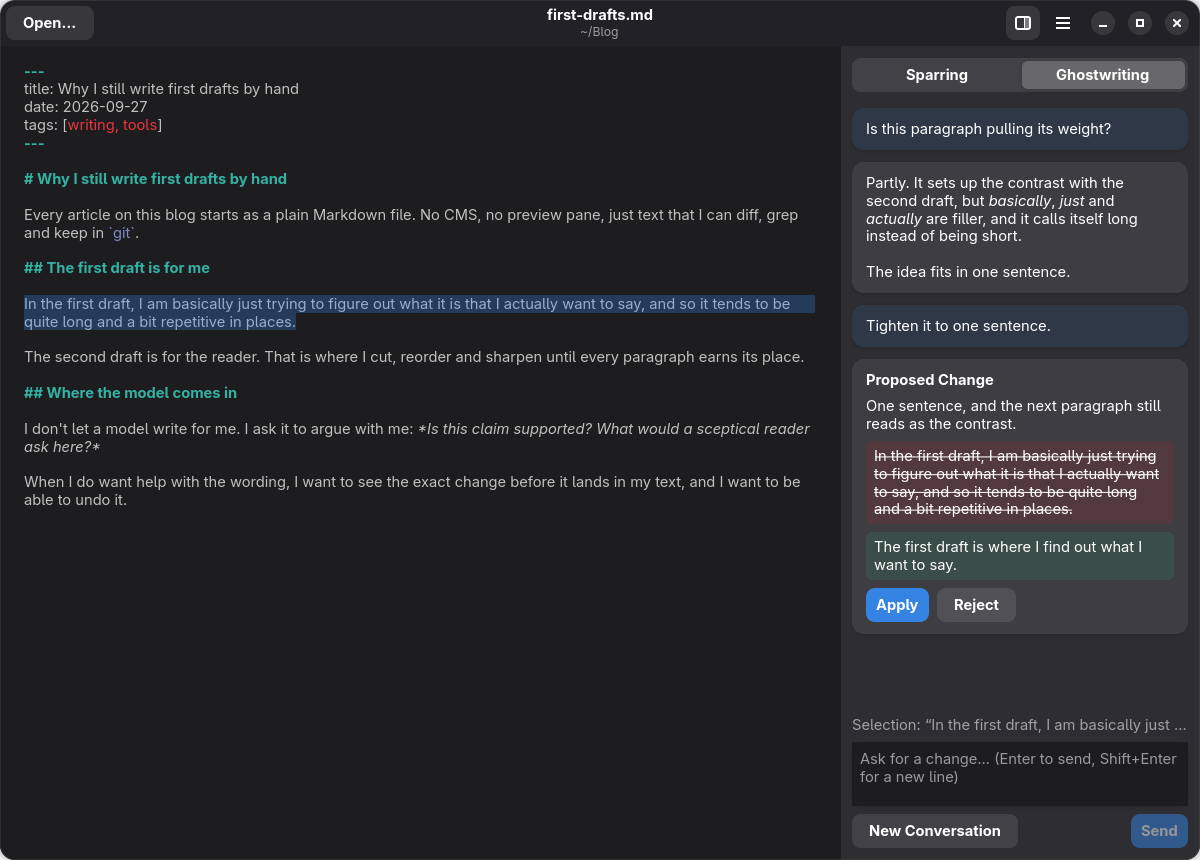
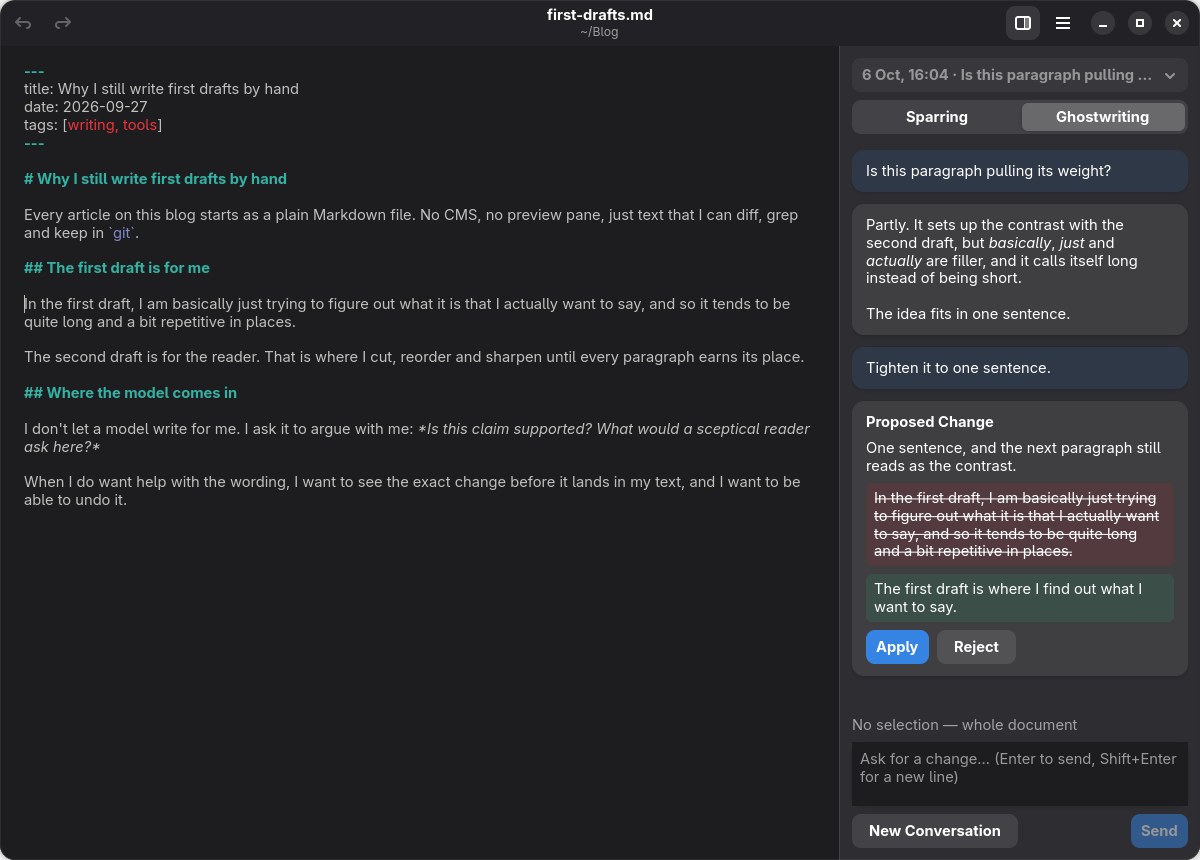
Replace the header bar's Open button with Undo and Redo
Open is already in the main menu, while undo and redo were only reachable
from the keyboard. The new win.undo and win.redo actions follow the editor's
undo history, so each button is greyed out while there is nothing to undo or
redo, and the buttons leave the focus in the editor.

diff --git a/tests/gtk_window.rs b/tests/gtk_window.rs
@@ -287,6 +287,7 @@ fn run_checks(app: &adw::Application, main: &Rc<MainWindow>, work_dir: &Path, ch
     chat_pane(checks, &window, &paned, &input);
 
     new_document(checks, &window, &root, &buffer);
+    undo_redo(checks, &window, &root, &buffer);
     unsaved_changes_dialog(checks, &window, &root, &buffer);
     files(checks, main, &window, &root, &buffer, work_dir);
     recent_files(checks, main, &window, &root, &buffer, work_dir);
@@ -355,7 +356,19 @@ fn header_bar_and_menu(checks: &mut Checks, root: &gtk::Widget, widgets: &[gtk::
         "the zoom controls live inside the primary menu",
     );
 
-    let open = find_button(root, "_Open…").expect("Open button");
+    let icon_button = |icon: &str| {
+        widgets
+            .iter()
+            .filter_map(|w| w.downcast_ref::<gtk::Button>())
+            .find(|b| b.icon_name().as_deref() == Some(icon))
+            .cloned()
+    };
+    let undo = icon_button("edit-undo-symbolic").expect("Undo button");
+    let redo = icon_button("edit-redo-symbolic").expect("Redo button");
+    checks.check(
+        find_button(root, "_Open…").is_none(),
+        "the header bar leaves Open to the primary menu",
+    );
     let title_widget = widgets
         .iter()
         .find(|w| w.type_() == adw::WindowTitle::static_type())
@@ -368,16 +381,18 @@ fn header_bar_and_menu(checks: &mut Checks, root: &gtk::Widget, widgets: &[gtk::
         .expect("chat toggle button")
         .clone();
     let position = |widget: &gtk::Widget| widgets.iter().position(|w| w == widget);
-    let open_index = position(open.upcast_ref());
+    let undo_index = position(undo.upcast_ref());
+    let redo_index = position(redo.upcast_ref());
     let title_index = position(&title_widget);
     let toggle_index = position(chat_toggle.upcast_ref());
     let menu_index = position(menu_button.upcast_ref());
     checks.check(
-        open.ancestor(adw::HeaderBar::static_type()).is_some()
-            && open_index < title_index
+        undo.ancestor(adw::HeaderBar::static_type()).is_some()
+            && undo_index < redo_index
+            && redo_index < title_index
             && title_index < toggle_index
             && toggle_index < menu_index,
-        "the header bar packs Open at the start and the chat toggle before the primary menu",
+        "the header bar packs Undo and Redo at the start and the chat toggle before the primary menu",
     );
     checks.check(
         chat_toggle.is_active(),
@@ -647,6 +662,54 @@ fn new_document(
     checks.check(
         title.title() == "Untitled",
         "win.new resets the title to \"Untitled\"",
+    );
+}
+
+fn undo_redo(
+    checks: &mut Checks,
+    window: &gtk::Window,
+    root: &gtk::Widget,
+    buffer: &gtk::TextBuffer,
+) {
+    let icon_button = |icon: &str| {
+        widgets_under(root)
+            .into_iter()
+            .filter_map(|w| w.downcast::<gtk::Button>().ok())
+            .find(|b| b.icon_name().as_deref() == Some(icon))
+    };
+    let undo = icon_button("edit-undo-symbolic").expect("Undo button");
+    let redo = icon_button("edit-redo-symbolic").expect("Redo button");
+    checks.check(
+        !undo.is_sensitive() && !redo.is_sensitive(),
+        "Undo and Redo are greyed out with nothing to undo or redo",
+    );
+
+    buffer.insert_at_cursor("Draft");
+    checks.check(
+        undo.is_sensitive() && !redo.is_sensitive(),
+        "an edit enables Undo",
+    );
+    window
+        .activate_action("win.undo", None)
+        .expect("win.undo exists");
+    checks.check(buffer.char_count() == 0, "win.undo undoes the edit");
+    checks.check(
+        !undo.is_sensitive() && redo.is_sensitive(),
+        "undoing the only edit greys out Undo and enables Redo",
+    );
+    window
+        .activate_action("win.redo", None)
+        .expect("win.redo exists");
+    checks.check(
+        buffer
+            .text(&buffer.start_iter(), &buffer.end_iter(), true)
+            .as_str()
+            == "Draft",
+        "win.redo redoes the edit",
+    );
+    checks.check(
+        undo.is_sensitive() && !redo.is_sensitive(),
+        "redoing the edit enables Undo and greys out Redo",
     );
 }
 

diff --git a/src/ui/window.rs b/src/ui/window.rs
@@ -114,11 +114,18 @@ impl MainWindow {
         start_chat_at_its_width(&paned, &chat_pane);
         toasts.set_child(Some(&paned));
 
-        let open_button = gtk::Button::builder()
-            .label("_Open…")
-            .use_underline(true)
-            .tooltip_text("Open a Markdown File")
-            .action_name("win.open")
+        // Clicking them leaves the focus in the editor, so writing can go on right away.
+        let undo_button = gtk::Button::builder()
+            .icon_name("edit-undo-symbolic")
+            .tooltip_text("Undo")
+            .action_name("win.undo")
+            .focus_on_click(false)
+            .build();
+        let redo_button = gtk::Button::builder()
+            .icon_name("edit-redo-symbolic")
+            .tooltip_text("Redo")
+            .action_name("win.redo")
+            .focus_on_click(false)
             .build();
         let chat_toggle = gtk::ToggleButton::builder()
             .icon_name("sidebar-show-right-symbolic")
@@ -165,7 +172,8 @@ impl MainWindow {
 
         let title = adw::WindowTitle::new("", "");
         let header = adw::HeaderBar::builder().title_widget(&title).build();
-        header.pack_start(&open_button);
+        header.pack_start(&undo_button);
+        header.pack_start(&redo_button);
         header.pack_end(&menu_button);
         header.pack_end(&chat_toggle);
 
@@ -335,6 +343,20 @@ impl MainWindow {
                 }
             ))
             .build();
+        let undo = gio::ActionEntry::builder("undo")
+            .activate(glib::clone!(
+                #[weak(rename_to = this)]
+                self,
+                move |_: &adw::ApplicationWindow, _, _| this.editor.undo()
+            ))
+            .build();
+        let redo = gio::ActionEntry::builder("redo")
+            .activate(glib::clone!(
+                #[weak(rename_to = this)]
+                self,
+                move |_: &adw::ApplicationWindow, _, _| this.editor.redo()
+            ))
+            .build();
         let find = gio::ActionEntry::builder("find")
             .activate(glib::clone!(
                 #[weak(rename_to = this)]
@@ -422,6 +444,8 @@ impl MainWindow {
             open_uri,
             save,
             save_as,
+            undo,
+            redo,
             find,
             find_next,
             find_previous,
@@ -431,6 +455,25 @@ impl MainWindow {
             zoom_out,
             zoom_reset,
         ]);
+        self.follow_undo_history();
+    }
+
+    /// Keeps `win.undo` and `win.redo` enabled only while the editor has something to undo or
+    /// redo.
+    fn follow_undo_history(&self) {
+        for (name, property) in [("undo", "can-undo"), ("redo", "can-redo")] {
+            if let Some(action) = self
+                .window
+                .lookup_action(name)
+                .and_downcast::<gio::SimpleAction>()
+            {
+                self.editor
+                    .buffer()
+                    .bind_property(property, &action, "enabled")
+                    .sync_create()
+                    .build();
+            }
+        }
     }
 
     /// Opens a Markdown file dropped onto the editor, through the unsaved-changes guard.

diff --git a/src/ui/editor.rs b/src/ui/editor.rs
@@ -102,6 +102,22 @@ impl EditorView {
         self.select(&inserted_start, &inserted_end);
     }
 
+    /// Undoes the last change, if any, and scrolls the cursor into view.
+    pub fn undo(&self) {
+        if self.buffer.can_undo() {
+            self.buffer.undo();
+            self.view.scroll_mark_onscreen(&self.buffer.get_insert());
+        }
+    }
+
+    /// Redoes the last undone change, if any, and scrolls the cursor into view.
+    pub fn redo(&self) {
+        if self.buffer.can_redo() {
+            self.buffer.redo();
+            self.view.scroll_mark_onscreen(&self.buffer.get_insert());
+        }
+    }
+
     /// Selects the text from `start` to `end` and scrolls it into view.
     pub fn select(&self, start: &gtk::TextIter, end: &gtk::TextIter) {
         self.buffer.select_range(start, end);

diff --git a/docs/prd.md b/docs/prd.md
@@ -36,8 +36,8 @@ choose, including a local one (Ollama, llama.cpp) or a hosted OpenAI-compatible 
 - R2. Opening and saving an unchanged file leaves it byte for byte identical. A leading byte
   order mark is kept; a file containing any CRLF is saved with CRLF, otherwise with LF.
 - R3. Loading a file leaves nothing to undo.
-- R4. Open files from the command line, a file manager, drag and drop onto the editor, or the
-  **Open** button. Only the first command-line file is opened.
+- R4. Open files from the command line, a file manager, drag and drop onto the editor, or
+  **Open…** in the main menu. Only the first command-line file is opened.
 - R5. New, Open, Save and Save As. Before discarding unsaved changes, ask the writer. Before
   overwriting a file that changed on disk since it was opened, ask the writer. Report failed
   reads and writes.
@@ -62,6 +62,9 @@ choose, including a local one (Ollama, llama.cpp) or a hosted OpenAI-compatible 
   opens that file instead.
 - R34. The window opens at the size it had when it was last closed, and maximized if it was;
   un-maximizing it then returns it to its earlier size. Where it opens is left to the desktop.
+- R35. **Undo** and **Redo** buttons at the start of the header bar undo and redo changes to
+  the document, as Ctrl+Z and Ctrl+Shift+Z do in the editor, and leave the focus where it was.
+  Each is greyed out while there is nothing to undo or redo.
 
 ### Chat
 
@@ -81,7 +84,7 @@ choose, including a local one (Ollama, llama.cpp) or a hosted OpenAI-compatible 
   edit. Matches must not start or end inside a word. In an empty document, an empty original
   stands for the whole document, so the LLM can write a first draft.
 - R13. An applied change is selected in the editor and is a single undo step, undoable from a
-  toast or with Ctrl+Z.
+  toast, with Ctrl+Z or with the **Undo** button.
 - R14. Every request includes the current document, so the model always sees the latest text,
   plus the conversation so far. Failed, cancelled and in-flight turns are left out of the
   history.
